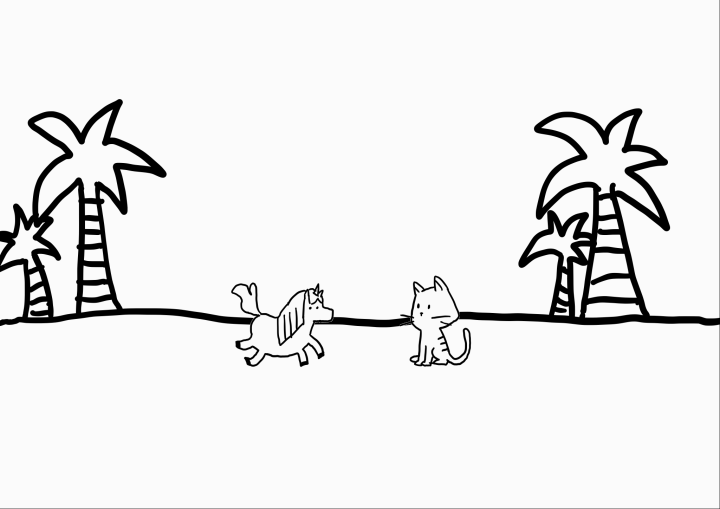
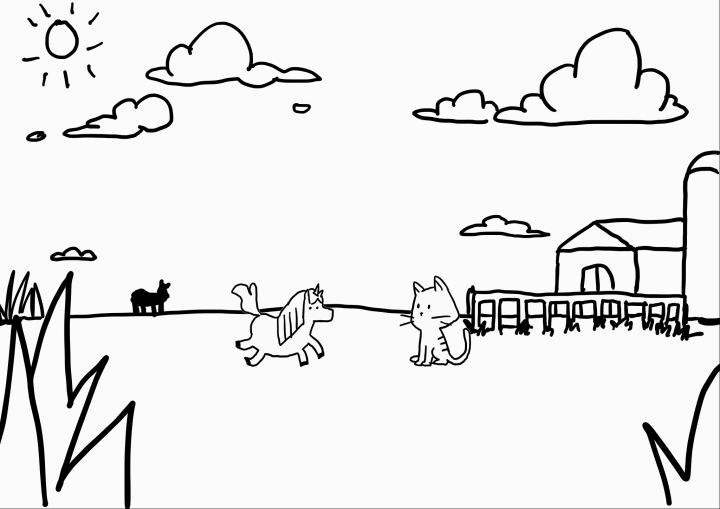
now accepts multiple scenes

diff --git a/server/utils/image_assembler.py b/server/utils/image_assembler.py
@@ -13,11 +13,11 @@ class image_assembler(object):
         image_dictionary = pickle.load(open(img_dic, 'rb'))
         foreground = image_dictionary[frame_info[0]['type']]
         flip_foreground = cv2.flip(image_dictionary[frame_info[1]['type']], 1)
+        background = cv2.imread(os.path.join(os.path.dirname(os.path.abspath(__file__)), str(frame_info[2]['setting'])) + '.png', 0)
         space = np.empty((384, 60))
         space.fill(255)
         foreground = np.hstack((foreground, space))
         foreground = np.hstack((foreground, flip_foreground))
-        background = cv2.imread(os.path.join(os.path.dirname(os.path.abspath(__file__)), 'scene.png'), 0)
         alpha = np.zeros((384,384))
         flip_alpha = np.zeros((384, 384))
         alpha = np.hstack((alpha, space - 255))

diff --git a/test.py b/test.py
@@ -2,6 +2,6 @@ from server.utils.image_assembler import image_assembler
 import cv2
 
 #frame_info = {0:{'type':'owl', 'says':'bark'},1:{'type':'cat','says':'meow'}}
-frame_info = {0: {'says': 'hello', 'type': 'unicorn'}, 1: {'says': 'meow', 'type': 'cat'}}
+frame_info = {0: {'says': 'hello', 'type': 'unicorn'}, 1: {'says': 'meow', 'type': 'cat'}, 2: {'setting':'barn'}}
 img = image_assembler.assemble(frame_info)
 print (img)
